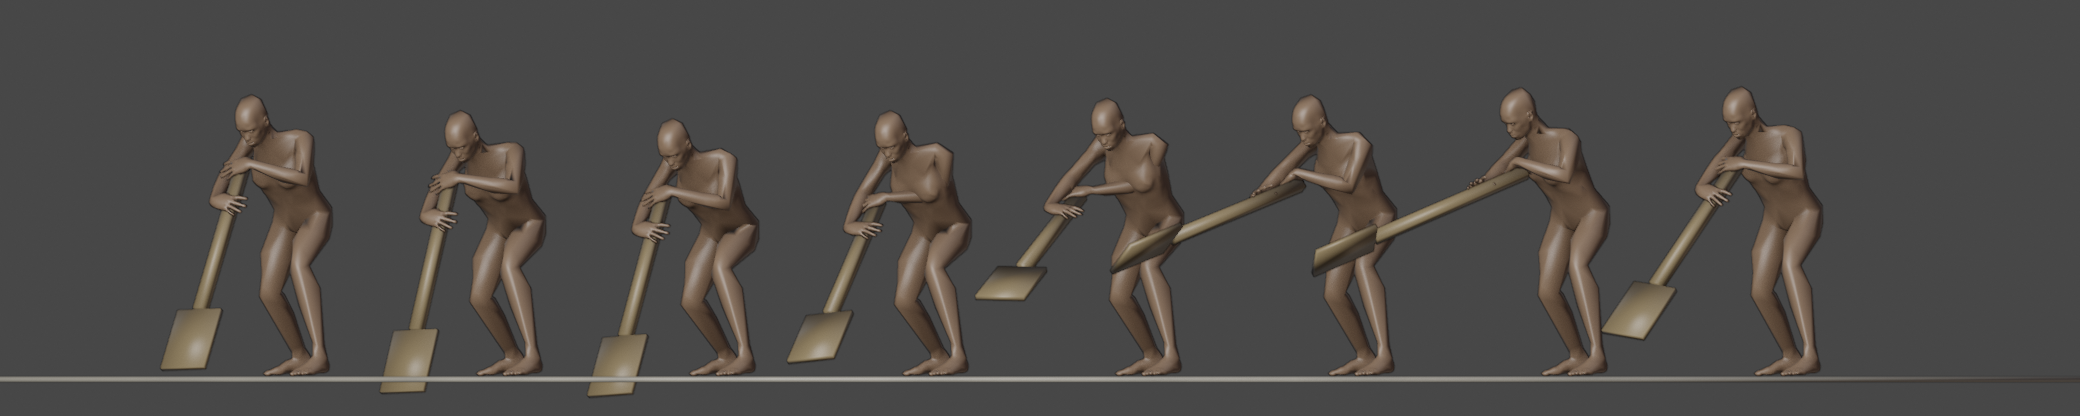
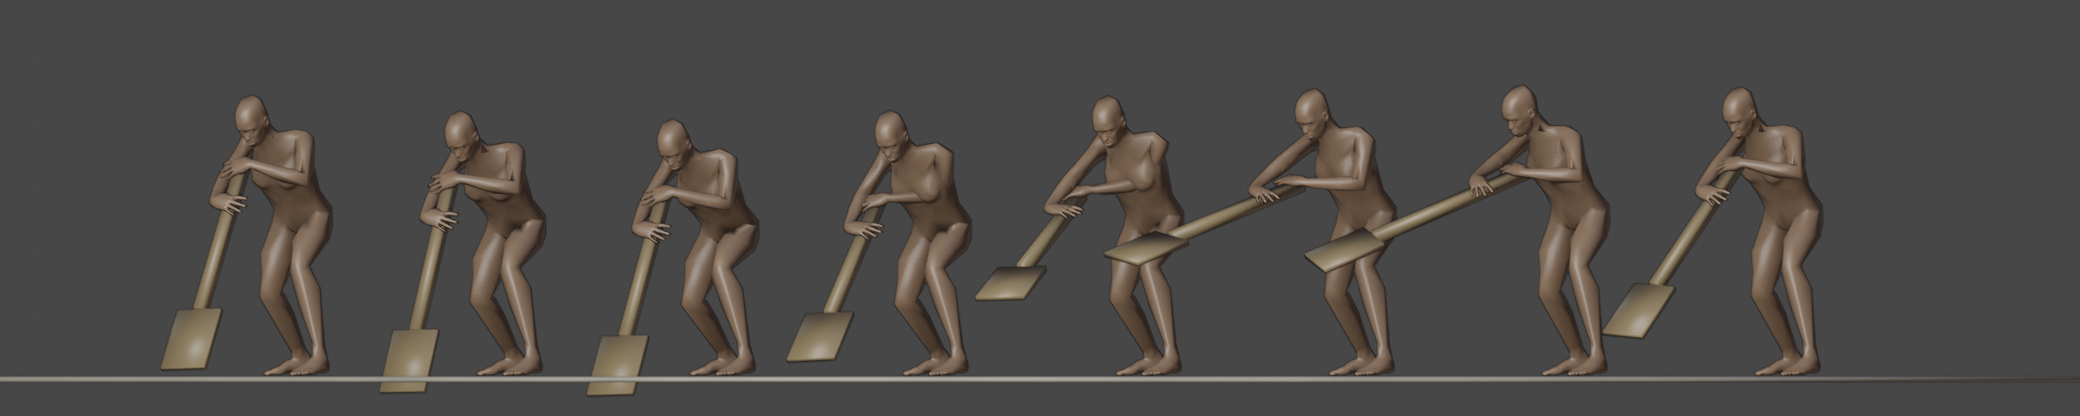
Carry the dig shovel's blade face along the shaft's path instead of keying it
The keyed face hints still rolled the shovel about its own shaft by about 68°
and back by about 78° between the lever and the throw (1.3-2.0 s), twisting
both wrists with it. The face is now seeded once and parallel-transported
along the keyed shaft directions; the loop's leftover turn (holonomy, 18.2°)
is spread evenly over the 2.4 s stroke so the clip closes at its seam.
Measured on the rebuilt villager.glb: max axial roll 0.25° per frame
(18.2° summed over the whole loop), down from 13.9° per frame. A Vitest case
bounds the dig's per-frame shaft roll on the shipped clip; the dig frame
sheets are re-rendered.

diff --git a/src/render/villagerClipPose.test.ts b/src/render/villagerClipPose.test.ts
@@ -10,7 +10,7 @@ import { VILLAGER_ASSET, VILLAGER_GLTF } from '../config/balance'
 import { parseVillager, type VillagerAsset } from './villagerAsset'
 import { clipGaitPose, clipPoseAt, newClipGait, shovelOnHungHand, stepClipGait, toHung, type GroundBody } from './villagerClipPose'
 import { gltfPerson, type GltfPerson } from './villagerFigureBody'
-import { contactPoints, forwardKinematics, newPose, newWorld } from './villagerRig'
+import { contactPoints, forwardKinematics, newPose, newWorld, toolInHand } from './villagerRig'
 
 let asset: VillagerAsset
 let adult: GltfPerson
@@ -174,6 +174,36 @@ describe('the shovel on the drawn hand', () => {
 })
 
 describe('the clips themselves', () => {
+  it('the dig never turns the shovel about its own shaft: per frame, once the shaft\'s swing is taken out', () => {
+    const c = asset.clips.dig
+    const n = asset.bones.length
+    const f = adult.frame
+    const hand = asset.bones.indexOf('hand.R')
+    const inHand = toolInHand(asset, 'R', c.tool!.grip).quaternion
+    const pose = newPose(n)
+    const world = newWorld(n)
+    const tools = Array.from(c.times, (t) => {
+      clipPoseAt(asset, f, c, t, pose)
+      forwardKinematics(asset, f.rest0, pose, world)
+      return world.q[hand].clone().multiply(inHand)
+    })
+    let worst = 0
+    let total = 0
+    for (let k = 1; k < tools.length; k++) {
+      const a0 = new THREE.Vector3(0, 1, 0).applyQuaternion(tools[k - 1])
+      const a1 = new THREE.Vector3(0, 1, 0).applyQuaternion(tools[k])
+      // the face carried by the shortest swing of the shaft, against the face itself
+      const carried = new THREE.Vector3(0, 0, 1).applyQuaternion(tools[k - 1]).applyQuaternion(new THREE.Quaternion().setFromUnitVectors(a0, a1))
+      const face = new THREE.Vector3(0, 0, 1).applyQuaternion(tools[k])
+      const roll = Math.atan2(carried.clone().cross(face).dot(a1), carried.dot(face))
+      worst = Math.max(worst, Math.abs(roll))
+      total += roll
+    }
+    // the loop's leftover (holonomy, ~18°) is spread evenly: ~0.25° a frame
+    expect(worst).toBeLessThan((1 * Math.PI) / 180)
+    expect(Math.abs(total)).toBeLessThan((25 * Math.PI) / 180)
+  })
+
   it('no bone jumps between two frames of any clip (an IK flip would)', () => {
     for (const [name, c] of Object.entries(asset.clips)) {
       const n = c.times.length

diff --git a/scripts/villager/toolclips.py b/scripts/villager/toolclips.py
@@ -188,25 +188,69 @@ def catmull(keys, t, period):
 
 
 # The dig stroke (seconds; body frame: +z ahead, +x the figure's left, y up).
-# tool: where the upper (left) hand holds the shaft, the shaft's direction from
-# there down to the blade, and a hint for the blade's face (+z of the tool:
-# the side that carries the soil — AWAY from the digger while the blade goes
-# in, so the lever turns it up with the soil on it, then tipped to the right
-# to throw). The face turns with the lever, never about the shaft: a hint that
-# began toward the digger and ended up turned the tool half round its own
-# shaft through the lever, and both wrists flipped (~0.8 rad in one frame).
+# tool: where the upper (left) hand holds the shaft and the shaft's direction
+# from there down to the blade. The blade's face (+z of the tool: the side that
+# carries the soil) is NOT keyed: it starts away from the digger (DIG_FACE0) and
+# is carried along the shaft's path with no turn about the shaft (parallel
+# transport, dig_faces), so the lever and the throw tip it only by swinging the
+# shaft. Keyed face hints rolled the tool ~68° and back ~78° about its shaft
+# between the lever and the throw, and both wrists twisted with it.
 # trunk: hip drop, forward lean of the spine, turn of the chest (+ to the left).
 DIG_PERIOD = 2.4
+DIG_FACE0 = (0.0, 0.5, 0.86)
 DIG_KEYS = [
-    # t,    upper hand (x, y, z),  shaft dir to blade,   face hint,       drop, lean, turn
-    (0.00, (-0.05, 0.80, 0.28), (0.04, -0.86, 0.50), (0.0, 0.5, 0.86), 0.05, 0.28, 0.00),
-    (0.45, (-0.05, 0.72, 0.32), (0.04, -0.90, 0.43), (0.0, 0.43, 0.9), 0.08, 0.26, 0.00),
-    (0.85, (-0.12, 0.66, 0.20), (0.15, -0.70, 0.70), (0.0, 0.7, 0.7), 0.10, 0.36, 0.05),
-    (1.30, (-0.16, 0.70, 0.24), (0.15, -0.38, 0.91), (0.0, 1.0, 0.0), 0.07, 0.34, 0.05),
-    (1.70, (-0.08, 0.76, 0.26), (-0.62, -0.28, 0.73), (-0.7, 0.3, 0.0), 0.05, 0.30, -0.40),
-    (2.00, (-0.04, 0.80, 0.28), (-0.20, -0.66, 0.72), (0.0, 0.6, 0.8), 0.05, 0.30, -0.20),
+    # t,    upper hand (x, y, z),  shaft dir to blade,   drop, lean, turn
+    (0.00, (-0.05, 0.80, 0.28), (0.04, -0.86, 0.50), 0.05, 0.28, 0.00),
+    (0.45, (-0.05, 0.72, 0.32), (0.04, -0.90, 0.43), 0.08, 0.26, 0.00),
+    (0.85, (-0.12, 0.66, 0.20), (0.15, -0.70, 0.70), 0.10, 0.36, 0.05),
+    (1.30, (-0.16, 0.70, 0.24), (0.15, -0.38, 0.91), 0.07, 0.34, 0.05),
+    (1.70, (-0.08, 0.76, 0.26), (-0.62, -0.28, 0.73), 0.05, 0.30, -0.40),
+    (2.00, (-0.04, 0.80, 0.28), (-0.20, -0.66, 0.72), 0.05, 0.30, -0.20),
 ]
 DIG_GRIP = {'R': -0.03, 'L': 0.13}
+
+
+def _transport(a0, a1, v):
+    """v carried from axis a0 to axis a1 by the shortest turn (no roll about the axis)."""
+    w = np.cross(a0, a1)
+    c = float(np.dot(a0, a1))
+    if np.linalg.norm(w) < 1e-12:
+        return v
+    K = np.array([[0, -w[2], w[1]], [w[2], 0, -w[0]], [-w[1], w[0], 0]])
+    return (np.eye(3) + K + K @ K / (1 + c)) @ v
+
+
+def shaft_roll(sdirs, faces):
+    """Per step, the tool's turn about its own shaft (rad) once the turn that
+    swings the shaft is taken out."""
+    out = []
+    for i in range(len(sdirs) - 1):
+        a1 = sdirs[i + 1]
+        p = _transport(sdirs[i], a1, faces[i])
+        p = unit(p - a1 * np.dot(p, a1))
+        f = unit(faces[i + 1] - a1 * np.dot(faces[i + 1], a1))
+        out.append(float(np.arctan2(np.dot(np.cross(p, f), a1), np.dot(p, f))))
+    return np.array(out)
+
+
+def dig_faces(sdirs):
+    """The blade's face along a closed loop of shaft directions (sdirs[-1] ==
+    sdirs[0]): DIG_FACE0 parallel-transported, and the loop's leftover turn
+    (its holonomy) spread evenly so the face meets itself at the seam."""
+    f = [unit(np.asarray(DIG_FACE0, float))]
+    for i in range(len(sdirs) - 1):
+        f.append(_transport(sdirs[i], sdirs[i + 1], f[-1]))
+    a = sdirs[-1]
+    p = unit(f[-1] - a * np.dot(f[-1], a))
+    g = unit(f[0] - a * np.dot(f[0], a))
+    hol = float(np.arctan2(np.dot(np.cross(p, g), a), np.dot(p, g)))
+    m = len(sdirs) - 1
+    out = []
+    for i, (v, d) in enumerate(zip(f, sdirs)):
+        ang = hol * i / m
+        v = v - d * np.dot(v, d)
+        out.append(unit(v * np.cos(ang) + np.cross(d, v) * np.sin(ang)))
+    return out, hol
 
 
 def max_turn_per_frame(Q):
@@ -236,12 +280,16 @@ def dig_clip(body, clips, cfg):
     P = np.zeros((n, 3))
     misses = []
     solvers, needs = [], []
+    keyed = [catmull([(kk[0], np.concatenate([kk[1], kk[2], kk[3:]])) for kk in DIG_KEYS], t, DIG_PERIOD) for t in times]
+    faces, hol = dig_faces([-unit(k[3:6]) for k in keyed])
+    roll = shaft_roll([-unit(k[3:6]) for k in keyed], faces)
+    print(f'dig: shaft roll max {np.degrees(np.abs(roll).max()):.2f} deg/frame, loop holonomy spread {np.degrees(hol):.1f} deg')
     for f, t in enumerate(times):
-        k = catmull([(kk[0], np.concatenate([kk[1], kk[2], kk[3], kk[4:]])) for kk in DIG_KEYS], t, DIG_PERIOD)
+        k = keyed[f]
         sdir = -unit(k[3:6])
-        face = unit(k[6:9])
+        face = faces[f]
         tip = k[0:3] - sdir * (DIG_GRIP['L'] - SHOVEL['tip'])
-        drop, lean, turn = k[9], k[10], k[11]
+        drop, lean, turn = k[6], k[7], k[8]
         # the tool, from its keyed blade tip and shaft
         rot = frame(sdir, face)
         y_ax = rot[:, 0]
